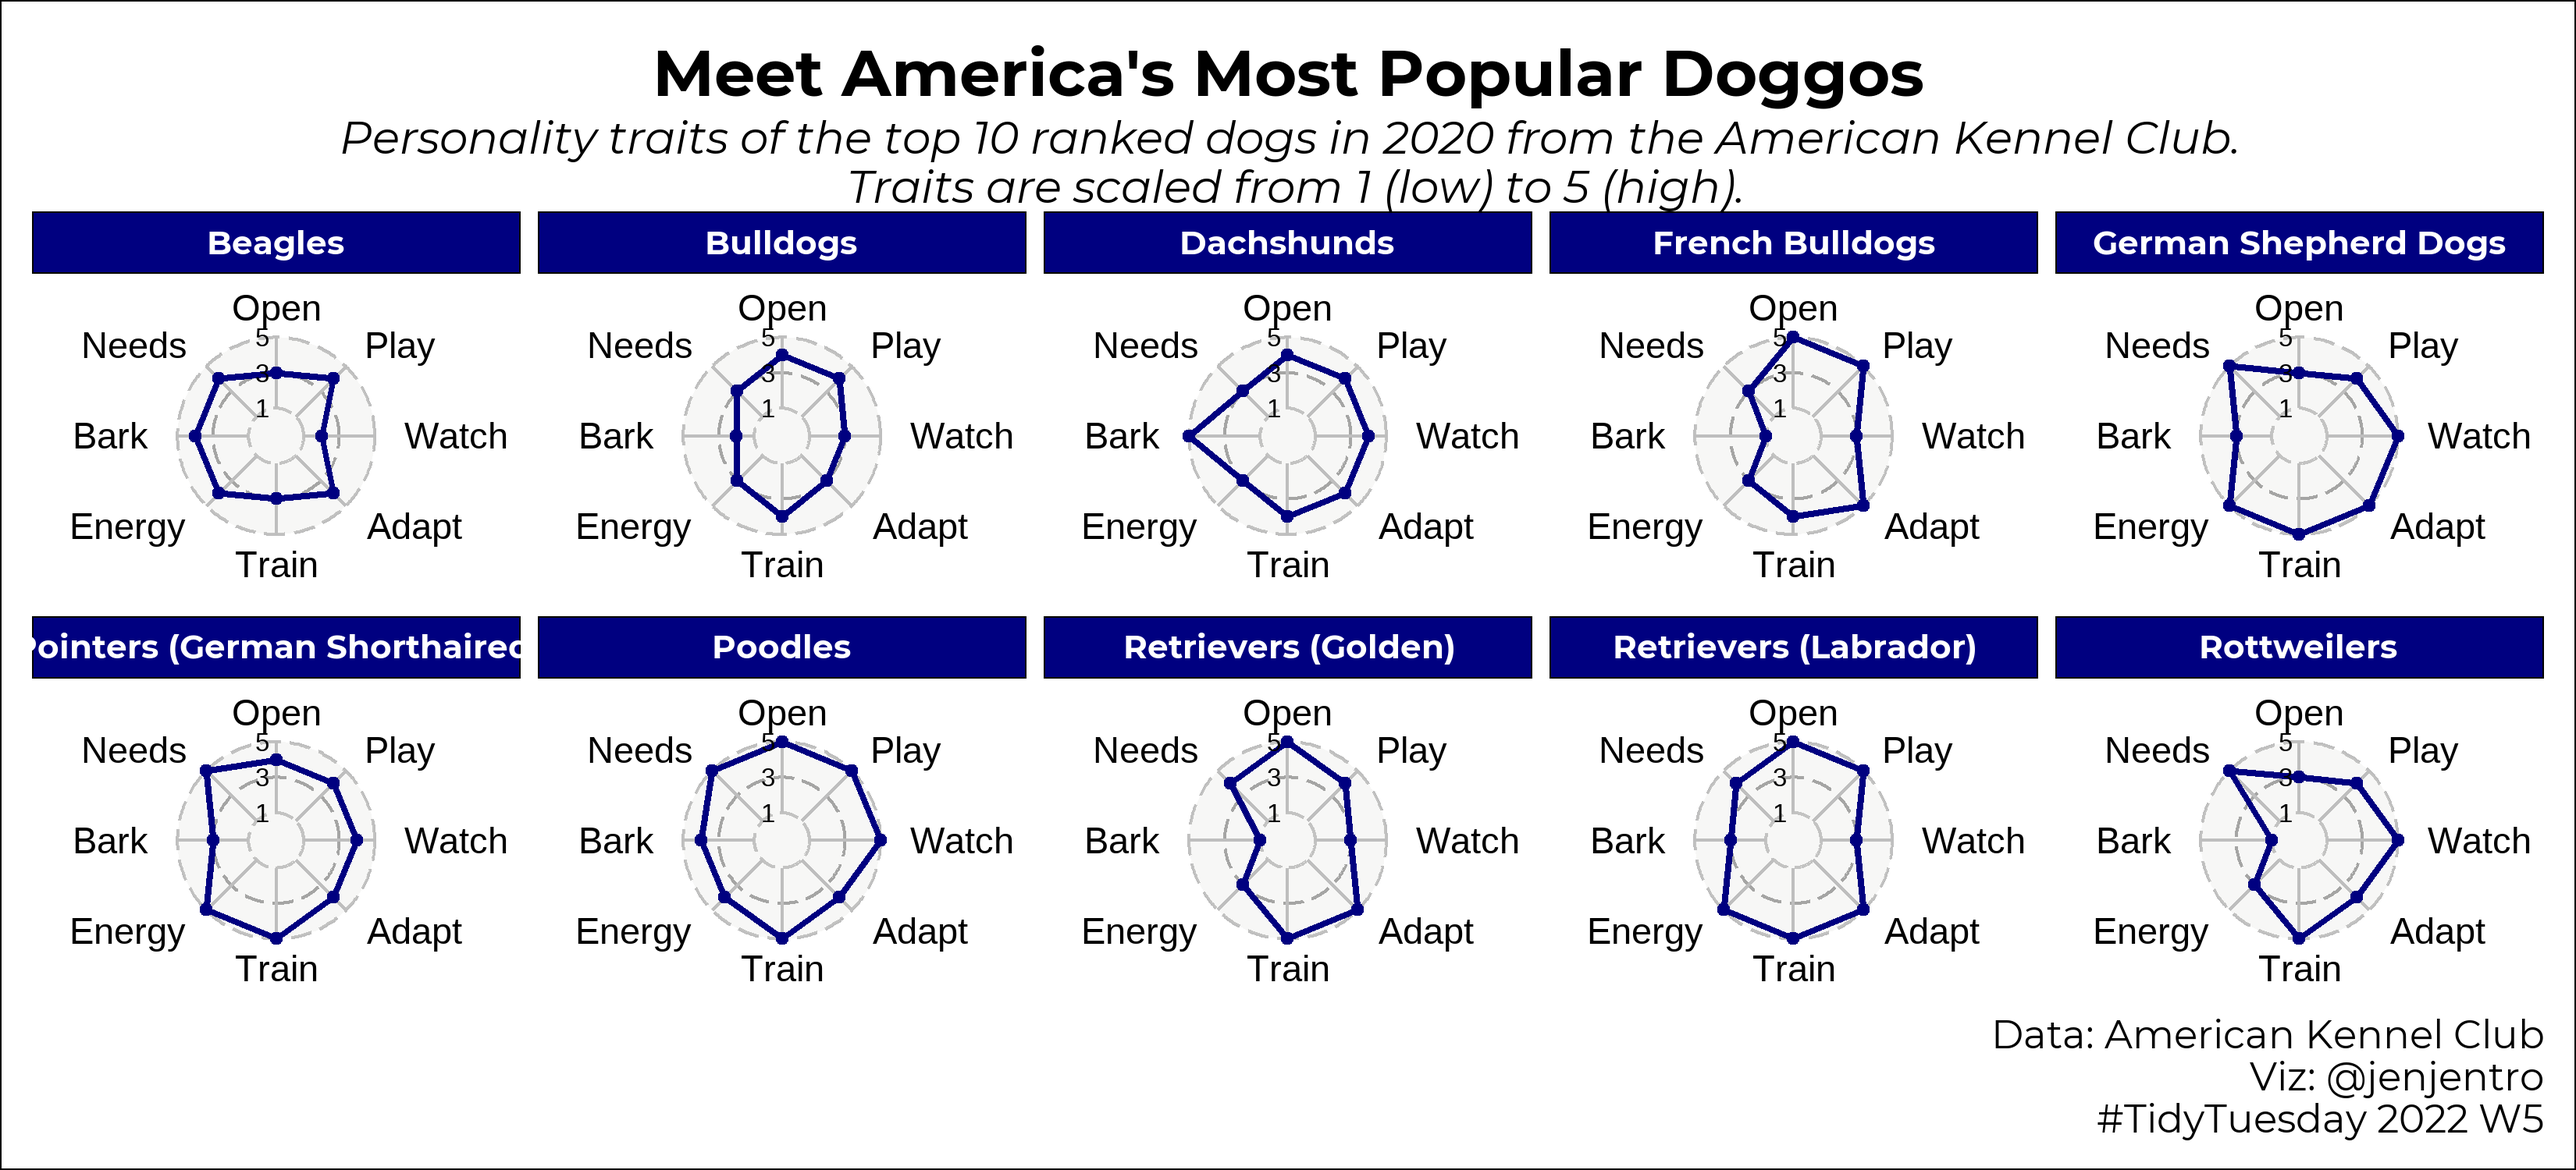
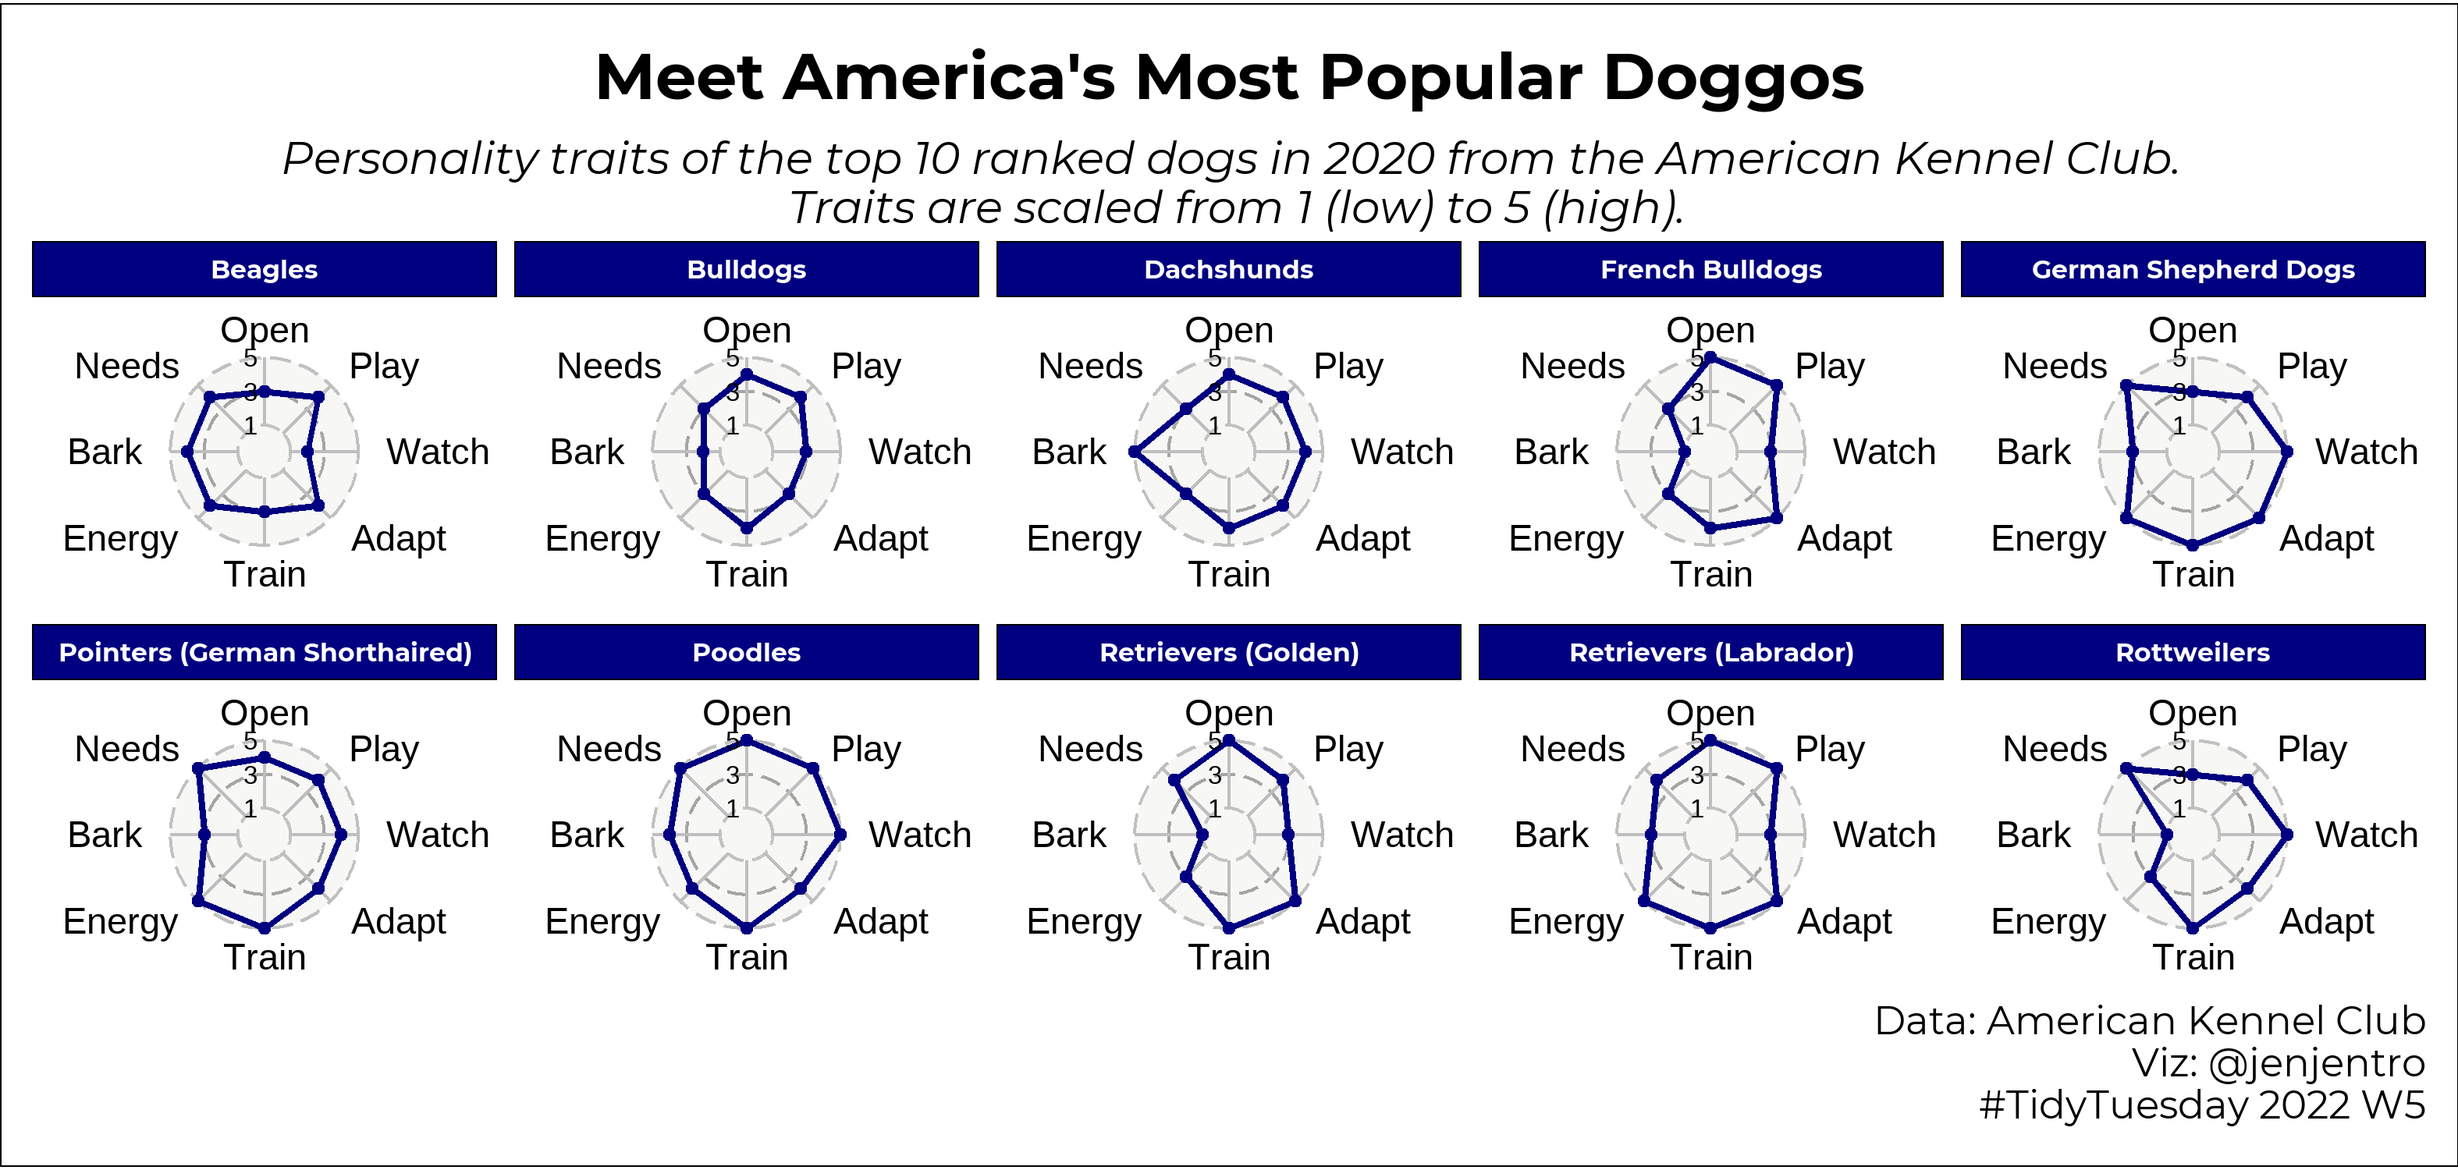
Minor adjustment to facet labels; added dog breed plot to README.md

Changed region(s): [[0.0, 0.0307, 1.0, 1.0], [0.9956, 0.0, 1.0, 0.0307], [0.9333, 0.6133, 0.9644, 0.644]]

diff --git a/README.md b/README.md
@@ -16,6 +16,9 @@ Finalized visualizations can be found on my [Twitter](https://twitter.com/jenjen
 
 ### 2022
 
+2022-02-01: Dog Breeds
+![radar plots of personality traits for top 10 dog breeds in 2020](/2022/2022-02-01/dog-breed-radar-plot.png)
+
 2022-01-25: Board Games
 ![lollipop plot showing the top 10 most wished board games](/2022/2022-01-25/board-game_tidytues.png)
 
